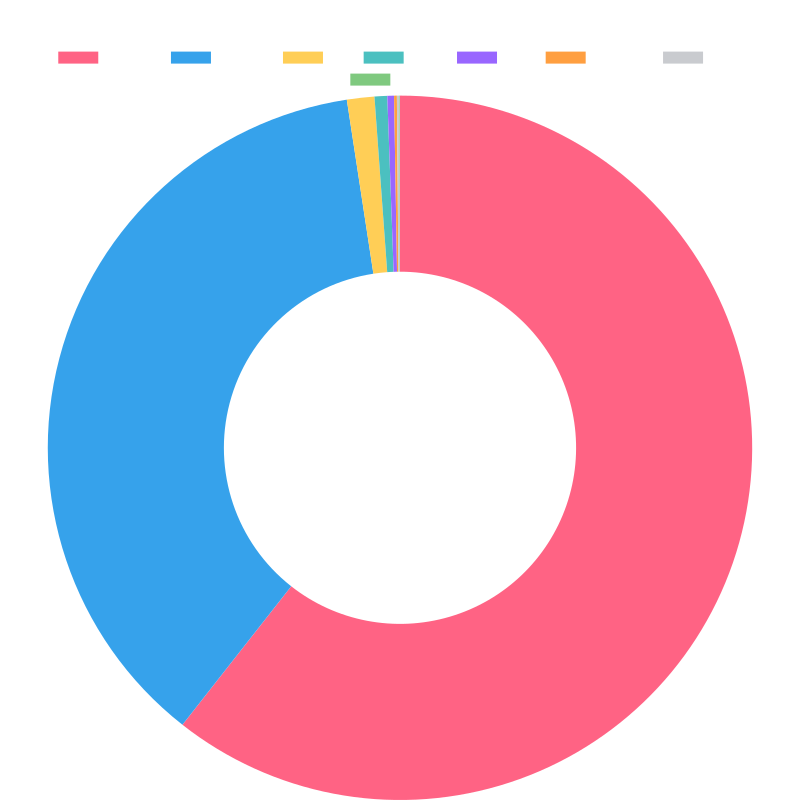
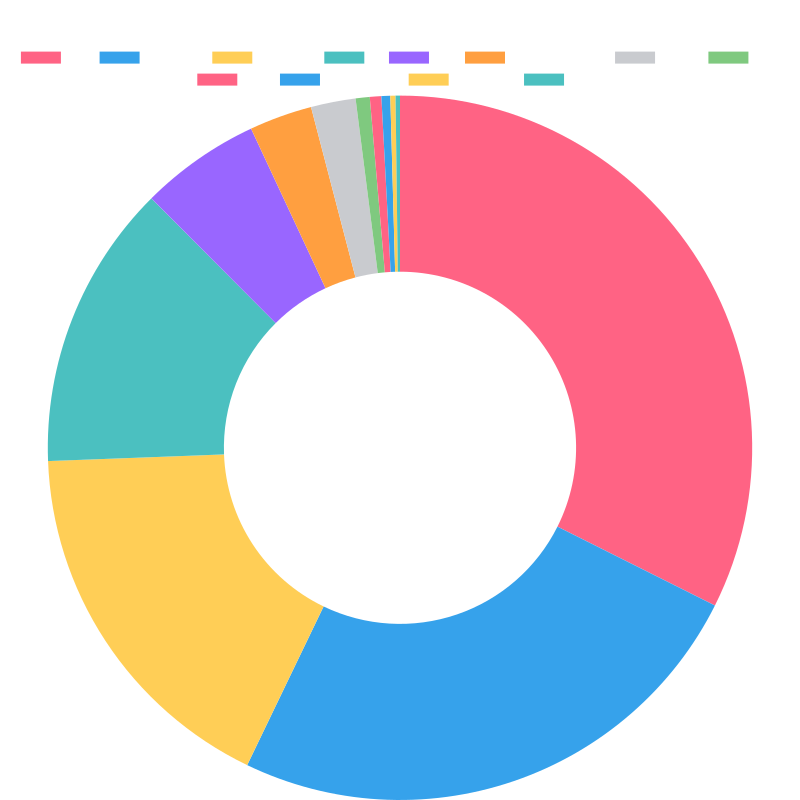
Update combined stats

diff --git a/profile/README.md b/profile/README.md
@@ -50,6 +50,33 @@ TypeScript: 60.6% | JavaScript: 37.0% | CSS: 1.3% | Python: 0.6% | HTML: 0.3% | 
 ### Languages and Technologies
 <!-- Your workflow is already updating this section -->
 
+## Combined GitHub Stats
+
+| Stat | Personal | Organization | Combined |
+|------|----------|--------------|----------|
+| Repositories | 26 | 5 | 31 |
+| Stars | 1 | 1 | 2 |
+| Forks | 0 | 0 | 0 |
+
+
+## Top Languages
+  * C++: 32.4%
+  * TypeScript: 24.8%
+  * JavaScript: 17.3%
+  * C: 13.1%
+  * Lua: 5.5%
+  * Jupyter Notebook: 2.9%
+  * Python: 2.1%
+  * CSS: 0.6%
+  * Shell: 0.5%
+  * SuperCollider: 0.4%
+  * Processing: 0.2%
+  * HTML: 0.2%
+
+<div align="center">
+  <img src="https://github.com/FabienDostieIT/.github/raw/main/assets/language-chart.png" alt="Top Languages" width="500">
+</div>
+
 ## Experience and Tools
 ### I have some experience with:
 <div align="center">
@@ -147,5 +174,3 @@ TypeScript: 60.6% | JavaScript: 37.0% | CSS: 1.3% | Python: 0.6% | HTML: 0.3% | 
 [Contact information and social links]
 
 _Last updated: 2025-04-21_
-
-
